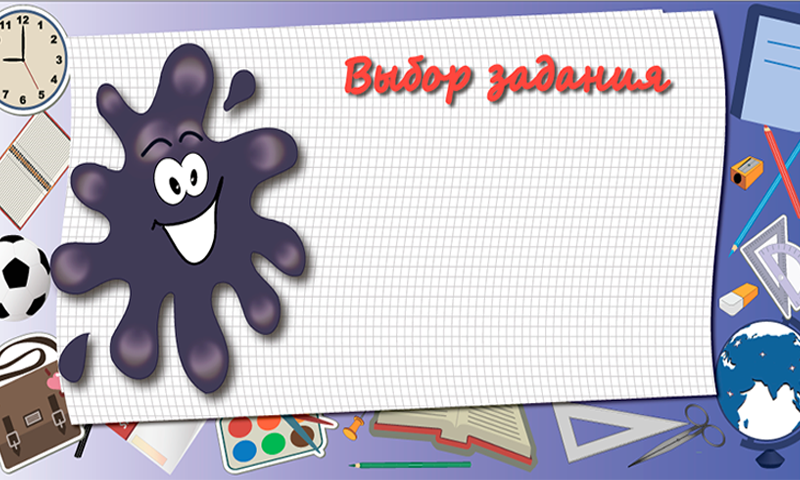
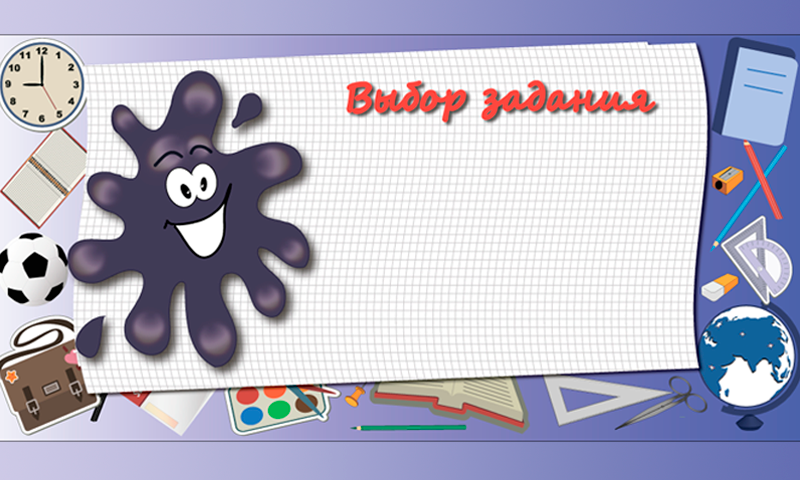
новое оформление дизайна

diff --git a/graphdict/src/net/slezok/dots/Assets.java b/graphdict/src/net/slezok/dots/Assets.java
@@ -21,6 +21,7 @@ public class Assets {
 	public static TextureRegion listBackgroundTexture;
 	public static TextureRegion settPanelBackgroundTexture;
 	public static Texture dictBackgroundTexture;
+	public static TextureRegion settingsBackgroundTexture;
 	public static Skin skin;
 	
 	public static TextureRegion up;
@@ -53,6 +54,9 @@ public class Assets {
 	public static TextureRegion records;
 	public static TextureRegion recordsPressed;
 
+	public static TextureRegion settings;
+	public static TextureRegion settingsPressed;
+
 	public static Sound wellDoneSound;
 	public static Sound gameOverSound;
 	public static Sound errorSound;
@@ -83,6 +87,7 @@ public class Assets {
 		mainBackgroundTexture = bgrAtlas.findRegion("intro_screen");
 		listBackgroundTexture = bgrAtlas.findRegion("menu_screen");
 		settPanelBackgroundTexture = bgrAtlas.findRegion("opt_panel");
+		settingsBackgroundTexture = bgrAtlas.findRegion("sett_screen");
 		
 		dictBackgroundTexture = new Texture(Gdx.files.internal("data/dictback.jpg"));
 		
@@ -113,6 +118,9 @@ public class Assets {
 		
 		play = buttonsAtlas.findRegion("play");
 		playPressed = buttonsAtlas.findRegion("play_pressed");
+
+		settings = buttonsAtlas.findRegion("settings");
+		settingsPressed = buttonsAtlas.findRegion("settings_pressed");
 
 		records = buttonsAtlas.findRegion("records");
 		recordsPressed = buttonsAtlas.findRegion("records_pressed");

diff --git a/graphdict/src/net/slezok/dots/screens/DictScreen.java b/graphdict/src/net/slezok/dots/screens/DictScreen.java
@@ -46,7 +46,7 @@ public class DictScreen extends ActorGestureListener implements Screen {
 
 	protected static final float NORMAL_STEP_TIME = 6000;
 
-	private static final float SETT_HANDLER_WIDTH = 50;
+	private static final float SETT_HANDLER_WIDTH = 60;
 	
 	private static final float CONTROL_PANEL_MOVE_TIME = 2;
 	private static final float UNVISIBLE_X_POSITION = -300;
